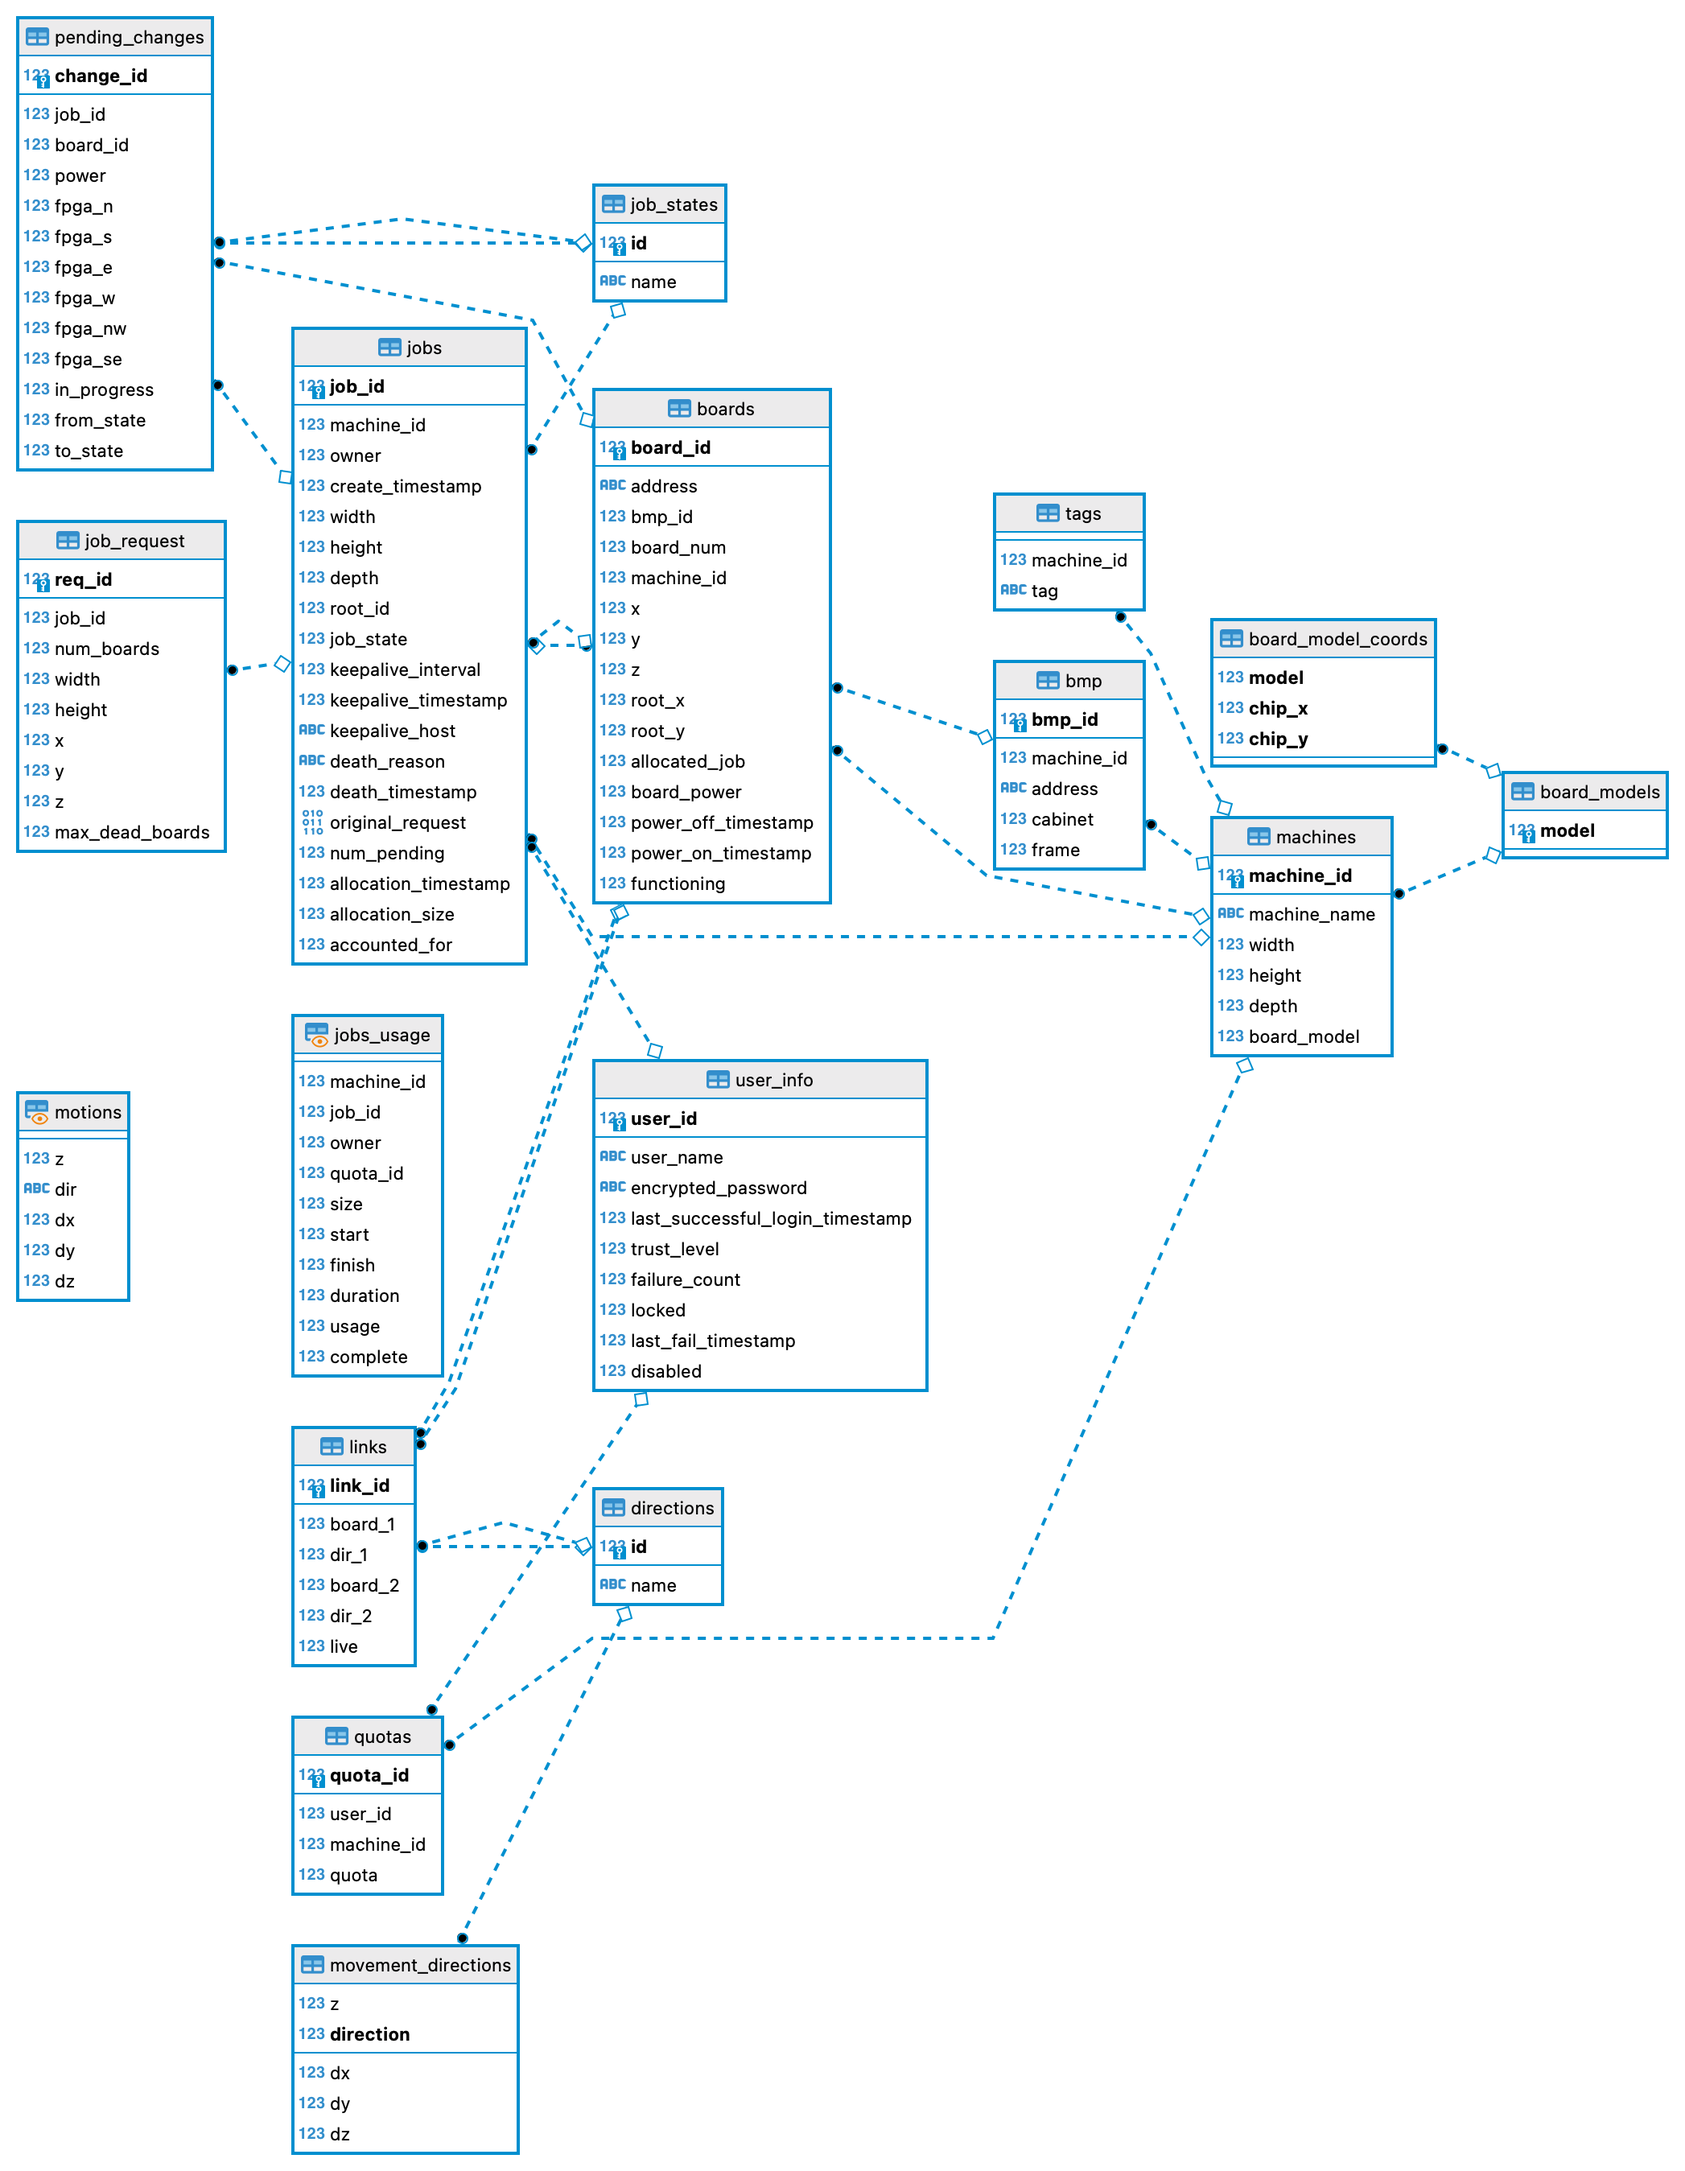
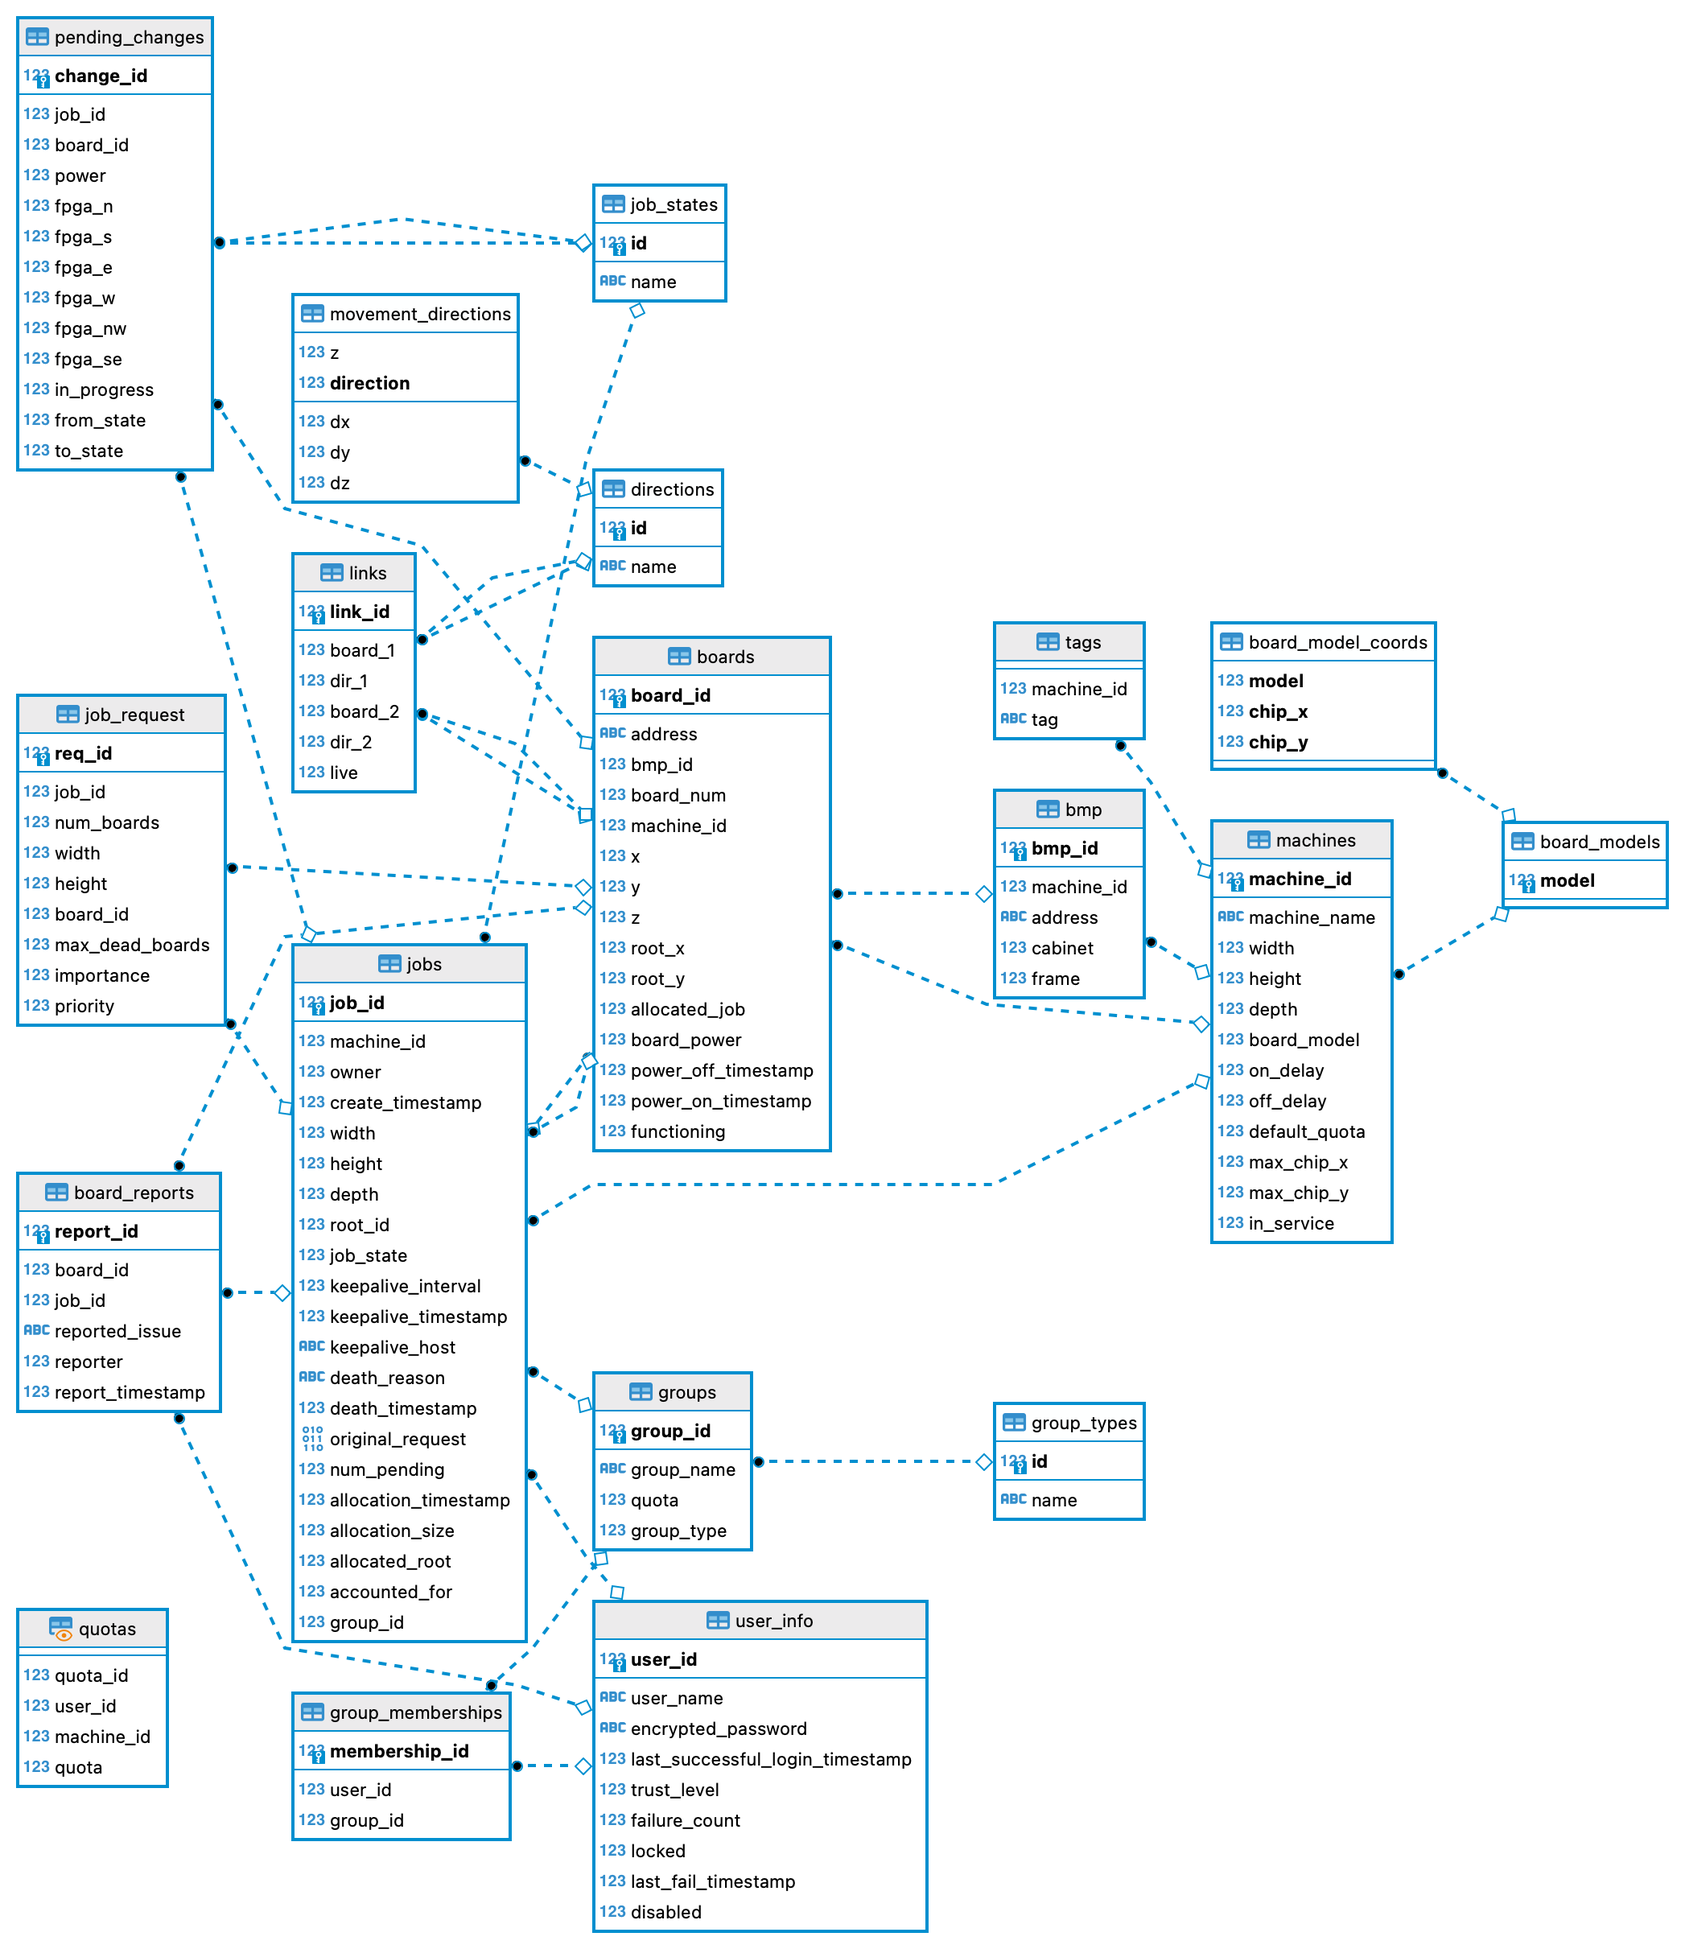
Forgot to define a query! Derp.
Also updated the schema picture

diff --git a/SpiNNaker-allocserv/src/main/java/uk/ac/manchester/spinnaker/alloc/db/SQLQueries.java b/SpiNNaker-allocserv/src/main/java/uk/ac/manchester/spinnaker/alloc/db/SQLQueries.java
@@ -42,7 +42,6 @@ import uk.ac.manchester.spinnaker.storage.SingleRowResult;
  *
  * @author Donal Fellows
  */
-// FIXME update schema picture
 @SuppressWarnings("checkstyle:visibilitymodifier")
 public abstract class SQLQueries {
 	/** Get basic information about all machines. */
@@ -1145,10 +1144,10 @@ public abstract class SQLQueries {
 	 */
 	@Parameter("membership_id")
 	@ResultColumn("membership_id")
-	@ResultColumn("group_id")
-	@ResultColumn("group_name")
 	@ResultColumn("user_id")
+	@ResultColumn("group_id")
 	@ResultColumn("user_name")
+	@ResultColumn("group_name")
 	@SingleRowResult
 	protected static final String GET_MEMBERSHIP =
 			"SELECT membership_id, user_info.user_id, groups.group_id, "
@@ -1156,6 +1155,24 @@ public abstract class SQLQueries {
 					+ "JOIN user_info USING (user_id) "
 					+ "JOIN groups USING (group_id) "
 					+ "WHERE membership_id = :membership_id";
+
+	/**
+	 * Get the memberships of a user.
+	 *
+	 * @see UserControl
+	 */
+	@Parameter("user_id")
+	@ResultColumn("membership_id")
+	@ResultColumn("user_id")
+	@ResultColumn("group_id")
+	@ResultColumn("group_name")
+	@ResultColumn("user_name")
+	protected static final String GET_MEMBERSHIPS_OF_USER =
+			"SELECT membership_id, user_info.user_id, groups.group_id, "
+					+ "user_name, group_name FROM group_memberships "
+					+ "JOIN user_info USING (user_id) "
+					+ "JOIN groups USING (group_id) "
+					+ "WHERE group_memberships.user_id = :user_id";
 
 	/**
 	 * Create a group record.

diff --git a/SpiNNaker-allocserv/src/test/java/uk/ac/manchester/spinnaker/alloc/db/DQLTest.java b/SpiNNaker-allocserv/src/test/java/uk/ac/manchester/spinnaker/alloc/db/DQLTest.java
@@ -807,6 +807,17 @@ class DQLTest extends SQLQueries {
 	}
 
 	@Test
+	void getMembershipsOfUser() {
+		try (Query q = c.query(GET_MEMBERSHIPS_OF_USER)) {
+			assertEquals(1, q.getNumArguments());
+			assertSetEquals(MEMBER_COLUMNS, q.getRowColumnNames());
+			c.transaction(() -> {
+				assertFalse(q.call1(NO_USER).isPresent());
+			});
+		}
+	}
+
+	@Test
 	void getUserQuota() {
 		try (Query q = c.query(GET_USER_QUOTA)) {
 			assertEquals(1, q.getNumArguments());

diff --git a/SpiNNaker-allocserv/src/main/java/uk/ac/manchester/spinnaker/alloc/admin/UserControl.java b/SpiNNaker-allocserv/src/main/java/uk/ac/manchester/spinnaker/alloc/admin/UserControl.java
@@ -80,7 +80,8 @@ public class UserControl extends DatabaseAwareBean {
 
 		private final Query getUserDetails = conn.query(GET_USER_DETAILS);
 
-		private final Query getMembershipsOfUser = conn.query("");
+		private final Query getMembershipsOfUser =
+				conn.query(GET_MEMBERSHIPS_OF_USER);
 
 		@Override
 		public void close() {
